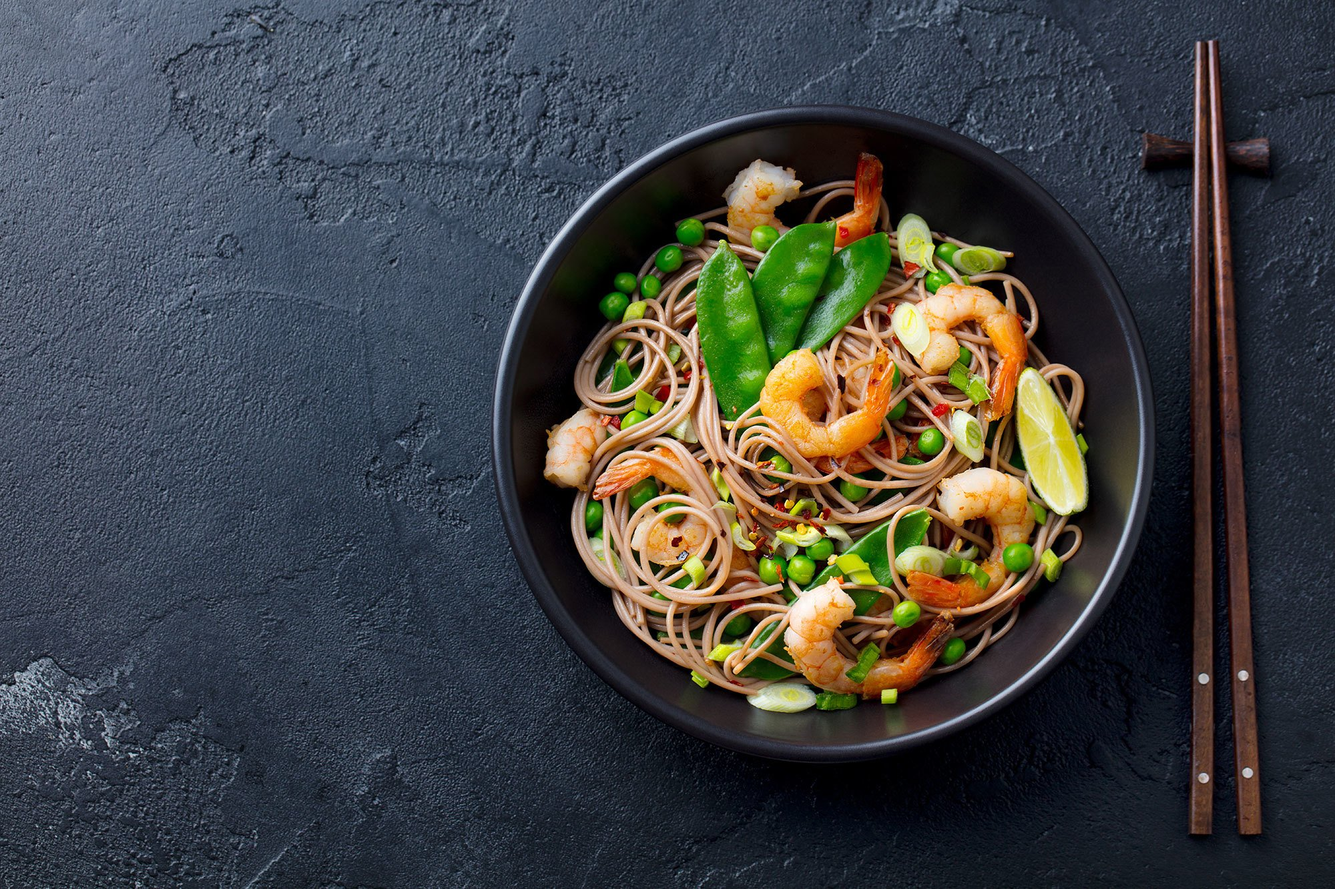
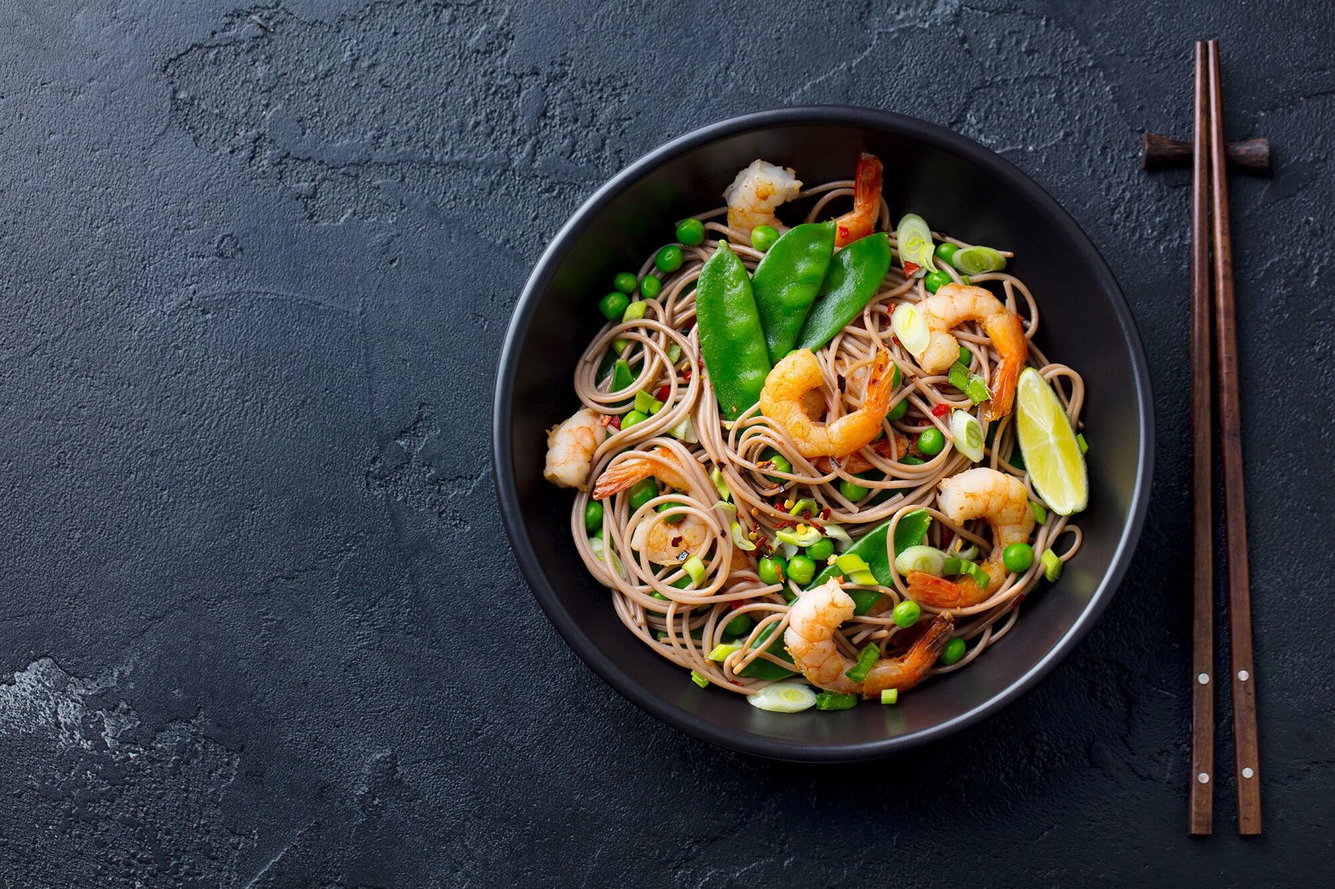
image optimization

diff --git a/index.html b/index.html
@@ -3,7 +3,7 @@
   <head>
     <meta charset="utf-8">
     <meta name="viewport" content="width=device-width, initial-scale=1, shrink-to-fit=no">
-
+    <link rel="preload" href="./assets/img/bg/hero1.jpg">
     <!-- Bootstrap CSS -->
     <link rel="stylesheet" href="https://cdn.jsdelivr.net/npm/bootstrap@4.5.3/dist/css/bootstrap.min.css" integrity="sha384-TX8t27EcRE3e/ihU7zmQxVncDAy5uIKz4rEkgIXeMed4M0jlfIDPvg6uqKI2xXr2" crossorigin="anonymous">
     <!--GOOGLE FONTS-->
